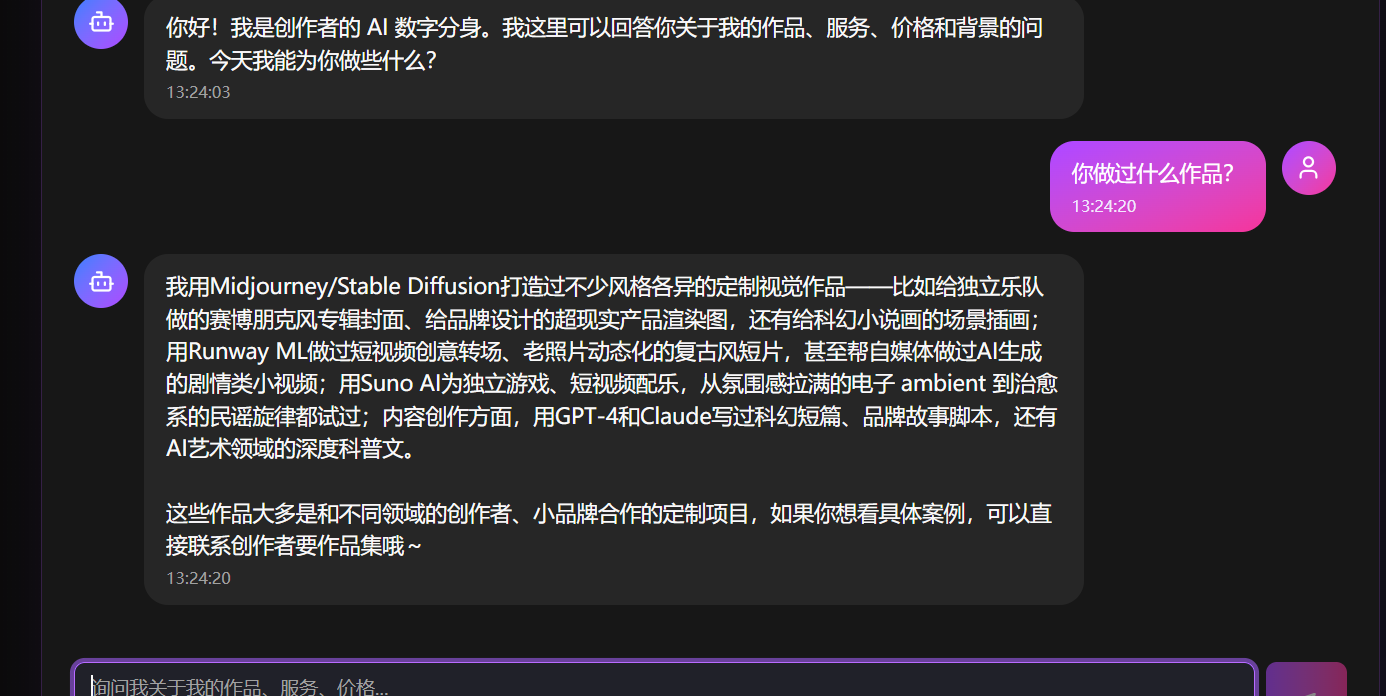
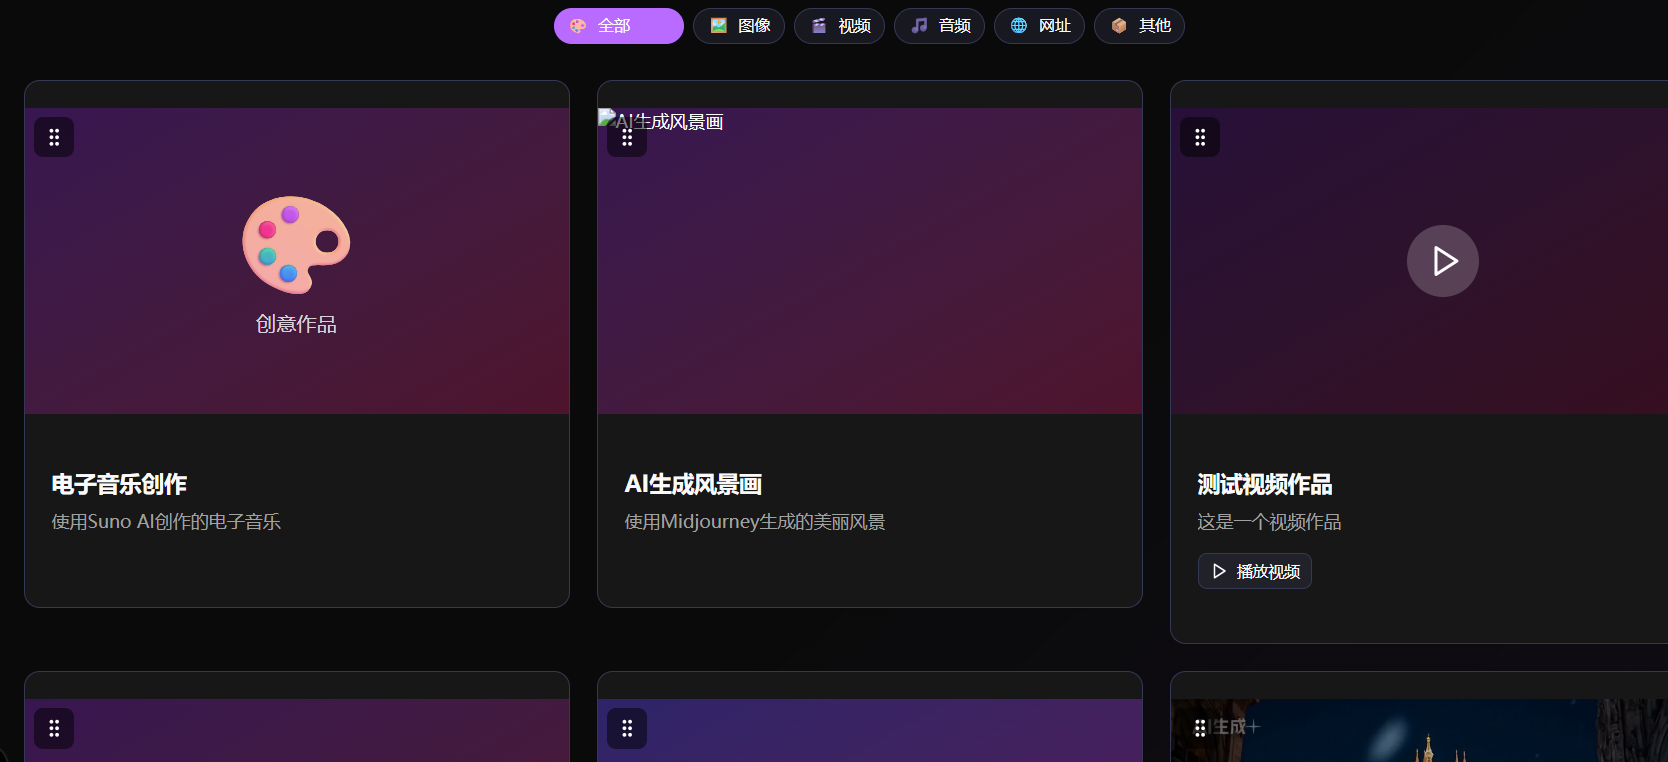
feat: AI数字分身作品卡片链接跳转到作品详情页

diff --git a/src/app/portfolio/[id]/page.tsx b/src/app/portfolio/[id]/page.tsx
@@ -1,0 +1,231 @@
+'use client';
+
+import { useState, useEffect } from 'react';
+import { useParams, useRouter } from 'next/navigation';
+import { motion } from 'framer-motion';
+import { Button } from '@/components/ui/button';
+import { Card, CardContent } from '@/components/ui/card';
+import { Navigation } from '@/components/navigation';
+import { ArrowLeft, Play, ExternalLink, Link2, Calendar, Tag } from 'lucide-react';
+
+interface Portfolio {
+  id: string;
+  title: string;
+  description: string;
+  category: string;
+  imageUrl?: string;
+  videoUrl?: string;
+  websiteUrl?: string;
+  createdAt: string;
+  updatedAt?: string;
+}
+
+// 分类配置
+const CATEGORIES: Record<string, { label: string; icon: string; color: string }> = {
+  image: { label: '图像', icon: '🖼', color: 'from-purple-500 to-pink-500' },
+  video: { label: '视频', icon: '🎬', color: 'from-blue-500 to-purple-500' },
+  audio: { label: '音频', icon: '🎵', color: 'from-green-500 to-blue-500' },
+  website: { label: '网址', icon: '🌐', color: 'from-pink-500 to-orange-500' },
+  other: { label: '其他', icon: '📦', color: 'from-gray-500 to-gray-600' },
+};
+
+export default function PortfolioDetailPage() {
+  const params = useParams();
+  const router = useRouter();
+  const [portfolio, setPortfolio] = useState<Portfolio | null>(null);
+  const [loading, setLoading] = useState(true);
+  const [error, setError] = useState<string | null>(null);
+
+  useEffect(() => {
+    const fetchPortfolio = async () => {
+      try {
+        const id = params.id as string;
+        const response = await fetch(`/api/portfolios/${id}`);
+        if (!response.ok) {
+          throw new Error('作品不存在');
+        }
+        const data = await response.json();
+        setPortfolio(data);
+      } catch (err) {
+        setError(err instanceof Error ? err.message : '加载失败');
+      } finally {
+        setLoading(false);
+      }
+    };
+
+    fetchPortfolio();
+  }, [params.id]);
+
+  const categoryConfig = portfolio ? CATEGORIES[portfolio.category] || CATEGORIES.other : null;
+
+  if (loading) {
+    return (
+      <div className="min-h-screen bg-gradient-to-br from-background via-background to-purple-950/20">
+        <Navigation />
+        <main className="container mx-auto px-4 pt-24 pb-16">
+          <div className="flex items-center justify-center h-[60vh]">
+            <div className="text-center">
+              <div className="inline-flex items-center gap-2 text-purple-400">
+                <div className="w-8 h-8 border-2 border-purple-400 border-t-transparent rounded-full animate-spin" />
+                <span>加载中...</span>
+              </div>
+            </div>
+          </div>
+        </main>
+      </div>
+    );
+  }
+
+  if (error || !portfolio) {
+    return (
+      <div className="min-h-screen bg-gradient-to-br from-background via-background to-purple-950/20">
+        <Navigation />
+        <main className="container mx-auto px-4 pt-24 pb-16">
+          <div className="flex items-center justify-center h-[60vh]">
+            <div className="text-center space-y-4">
+              <div className="text-6xl">😕</div>
+              <h2 className="text-2xl font-bold">作品不存在</h2>
+              <Button onClick={() => router.push('/portfolio')} className="mt-4">
+                <ArrowLeft className="mr-2 h-4 w-4" />
+                返回作品集
+              </Button>
+            </div>
+          </div>
+        </main>
+      </div>
+    );
+  }
+
+  return (
+    <div className="min-h-screen bg-gradient-to-br from-background via-background to-purple-950/20">
+      <Navigation />
+
+      <main className="container mx-auto px-4 pt-24 pb-16">
+        {/* 返回按钮 */}
+        <motion.div
+          initial={{ opacity: 0, x: -20 }}
+          animate={{ opacity: 1, x: 0 }}
+          className="mb-6"
+        >
+          <Button
+            variant="ghost"
+            onClick={() => router.push('/portfolio')}
+            className="gap-2"
+          >
+            <ArrowLeft className="h-4 w-4" />
+            返回作品集
+          </Button>
+        </motion.div>
+
+        {/* 作品详情 */}
+        <motion.div
+          initial={{ opacity: 0, y: 20 }}
+          animate={{ opacity: 1, y: 0 }}
+          transition={{ duration: 0.5 }}
+          className="max-w-6xl mx-auto"
+        >
+          {/* 标题区域 */}
+          <div className="mb-6">
+            <div className="flex items-center gap-3 mb-4">
+              {categoryConfig && (
+                <span className={`inline-flex items-center gap-2 px-4 py-2 rounded-full bg-gradient-to-r ${categoryConfig.color} text-white text-sm font-medium`}>
+                  <span>{categoryConfig.icon}</span>
+                  <span>{categoryConfig.label}</span>
+                </span>
+              )}
+              <span className="text-muted-foreground text-sm flex items-center gap-1">
+                <Calendar className="w-4 h-4" />
+                {new Date(portfolio.createdAt).toLocaleDateString('zh-CN')}
+              </span>
+            </div>
+            <h1 className="text-4xl md:text-5xl font-bold mb-4 bg-gradient-to-r from-purple-400 via-pink-400 to-blue-400 bg-clip-text text-transparent">
+              {portfolio.title}
+            </h1>
+            <p className="text-xl text-muted-foreground">
+              {portfolio.description}
+            </p>
+          </div>
+
+          {/* 媒体内容 */}
+          <Card className="border-purple-500/20 shadow-2xl shadow-purple-500/10 overflow-hidden mb-8">
+            <CardContent className="p-0">
+              <div className="aspect-video bg-gradient-to-br from-purple-900/50 to-pink-900/50 flex items-center justify-center">
+                {/* 优先级1: 图片 */}
+                {portfolio.imageUrl && (
+                  <img
+                    src={portfolio.imageUrl}
+                    alt={portfolio.title}
+                    className="w-full h-full object-cover"
+                  />
+                )}
+
+                {/* 优先级2: 视频 */}
+                {!portfolio.imageUrl && portfolio.videoUrl && (
+                  <video
+                    src={portfolio.videoUrl}
+                    className="w-full h-full object-cover"
+                    controls
+                    autoPlay={false}
+                  />
+                )}
+
+                {/* 优先级3: 网站预览 */}
+                {!portfolio.imageUrl && !portfolio.videoUrl && portfolio.websiteUrl && (
+                  <div className="text-center p-8">
+                    <Link2 className="w-24 h-24 text-white/80 mb-4 mx-auto" />
+                    <p className="text-white/90 text-lg mb-4">{portfolio.title}</p>
+                    <Button
+                      onClick={() => window.open(portfolio.websiteUrl, '_blank')}
+                      className="bg-gradient-to-r from-blue-500 to-purple-500 hover:from-blue-600 hover:to-purple-600"
+                    >
+                      <ExternalLink className="mr-2 h-4 w-4" />
+                      访问网站
+                    </Button>
+                  </div>
+                )}
+
+                {/* 优先级4: 默认 */}
+                {!portfolio.imageUrl && !portfolio.videoUrl && !portfolio.websiteUrl && (
+                  <div className="text-9xl">🎨</div>
+                )}
+              </div>
+            </CardContent>
+          </Card>
+
+          {/* 操作按钮 */}
+          <div className="flex flex-wrap gap-4">
+            {portfolio.websiteUrl && (
+              <Button
+                onClick={() => window.open(portfolio.websiteUrl, '_blank')}
+                className="bg-gradient-to-r from-purple-500 to-pink-500 hover:from-purple-600 hover:to-pink-600"
+              >
+                <ExternalLink className="mr-2 h-4 w-4" />
+                访问网站
+              </Button>
+            )}
+            {portfolio.videoUrl && !portfolio.imageUrl && (
+              <Button
+                onClick={() => window.open(portfolio.videoUrl, '_blank')}
+                variant="outline"
+                className="border-purple-500/50"
+              >
+                <Play className="mr-2 h-4 w-4" />
+                新窗口播放视频
+              </Button>
+            )}
+            {portfolio.imageUrl && (
+              <Button
+                onClick={() => window.open(portfolio.imageUrl, '_blank')}
+                variant="outline"
+                className="border-purple-500/50"
+              >
+                <ExternalLink className="mr-2 h-4 w-4" />
+                新窗口查看图片
+              </Button>
+            )}
+          </div>
+        </motion.div>
+      </main>
+    </div>
+  );
+}

diff --git a/src/components/portfolio-card.tsx b/src/components/portfolio-card.tsx
@@ -1,7 +1,8 @@
 import { motion } from 'framer-motion';
 import { Card, CardContent } from '@/components/ui/card';
-import { ExternalLink, Play, Link2 } from 'lucide-react';
+import { ExternalLink, Play, Link2, ArrowRight } from 'lucide-react';
 import { Button } from './ui/button';
+import { useRouter } from 'next/navigation';
 
 export interface PortfolioCardData {
   id: string;
@@ -18,34 +19,30 @@ interface PortfolioCardProps {
 }
 
 export function PortfolioCard({ portfolio }: PortfolioCardProps) {
-  const getLinkUrl = () => {
-    if (portfolio.websiteUrl) return portfolio.websiteUrl;
-    if (portfolio.videoUrl) return portfolio.videoUrl;
-    if (portfolio.imageUrl) return portfolio.imageUrl;
-    return '#';
+  const router = useRouter();
+
+  const handleClick = () => {
+    router.push(`/portfolio/${portfolio.id}`);
   };
 
-  const getLinkText = () => {
-    if (portfolio.websiteUrl) return '访问网站';
-    if (portfolio.videoUrl) return '观看视频';
-    if (portfolio.imageUrl) return '查看图片';
-    return '查看作品';
+  const getMediaType = () => {
+    if (portfolio.websiteUrl) return 'website';
+    if (portfolio.videoUrl) return 'video';
+    if (portfolio.imageUrl) return 'image';
+    return 'other';
   };
 
-  const getIcon = () => {
-    if (portfolio.websiteUrl) return <Link2 className="w-4 h-4" />;
-    if (portfolio.videoUrl) return <Play className="w-4 h-4 ml-1" />;
-    return <ExternalLink className="w-4 h-4" />;
-  };
+  const mediaType = getMediaType();
 
   return (
     <motion.div
       initial={{ opacity: 0, y: 10 }}
       animate={{ opacity: 1, y: 0 }}
       transition={{ duration: 0.3 }}
-      className="mt-3"
+      className="mt-3 cursor-pointer"
+      onClick={handleClick}
     >
-      <Card className="overflow-hidden hover:shadow-2xl hover:shadow-purple-500/20 transition-all duration-300 border-purple-500/30">
+      <Card className="overflow-hidden hover:shadow-2xl hover:shadow-purple-500/20 transition-all duration-300 border-purple-500/30 hover:border-purple-500/60">
         <div className="flex gap-4">
           {/* 图片预览 */}
           <div className="w-24 h-24 flex-shrink-0 bg-gradient-to-br from-purple-900/50 to-pink-900/50 flex items-center justify-center overflow-hidden">
@@ -85,11 +82,10 @@ export function PortfolioCard({ portfolio }: PortfolioCardProps) {
               <Button
                 size="sm"
                 variant="outline"
-                onClick={() => window.open(getLinkUrl(), '_blank')}
                 className="flex-shrink-0 gap-1 text-xs h-7"
               >
-                {getIcon()}
-                {getLinkText()}
+                <ArrowRight className="w-4 h-4" />
+                查看详情
               </Button>
             </div>
           </CardContent>
